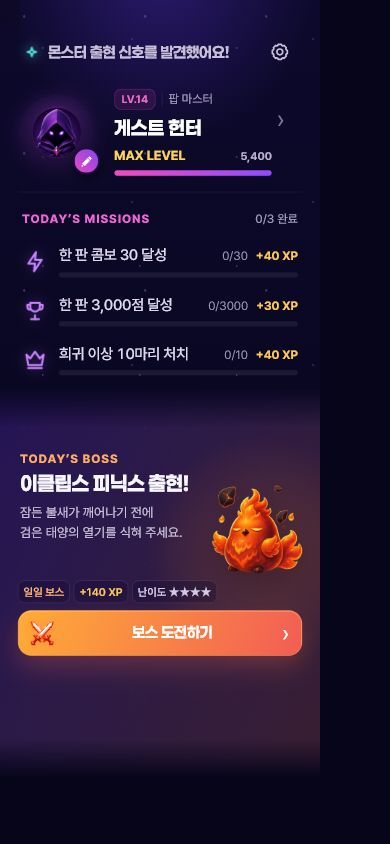
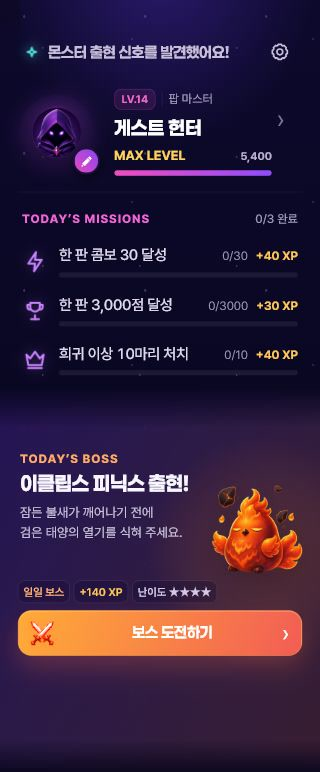
8/6(목) 14:37 · mobile-home.jpg, project-monsterpop.html 수정

diff --git a/project-monsterpop.html b/project-monsterpop.html
@@ -124,9 +124,10 @@
 
     .hero-visual .hero-main-phone .phone-screen { position: absolute; top: 1.54%; left: 4.53%; width: 90.95%; height: 97%; overflow: hidden; border-radius: 11% / 5%; z-index: 1; background: #07051a; }
 
-    .hero-visual .hero-main-phone .phone-screen img { position: absolute; inset: 0 auto 0 0; z-index: 1; width: 118% !important; height: 100% !important; object-fit: cover; object-position: left top; border-radius: 0; display: block; background: #07051a; transition: object-position 5.5s ease-in-out; }
+    /* 원본을 내용에 맞춰 잘라냈으므로 확대·좌측정렬 보정이 필요 없다 */
+    .hero-visual .hero-main-phone .phone-screen img { position: absolute; inset: 0; z-index: 1; width: 100% !important; height: 100% !important; object-fit: cover; object-position: center top; border-radius: 0; display: block; background: #07051a; transition: object-position 5.5s ease-in-out; }
 
-    .hero-main-phone.autoscroll:hover .phone-screen img { object-position: left bottom; }
+    .hero-main-phone.autoscroll:hover .phone-screen img { object-position: center bottom; }
 
     .hero-main-phone:hover { transform: rotate(0deg) translateY(-6px) scale(1.015); filter: drop-shadow(0 34px 52px rgba(5,0,24,.5)); }
 
